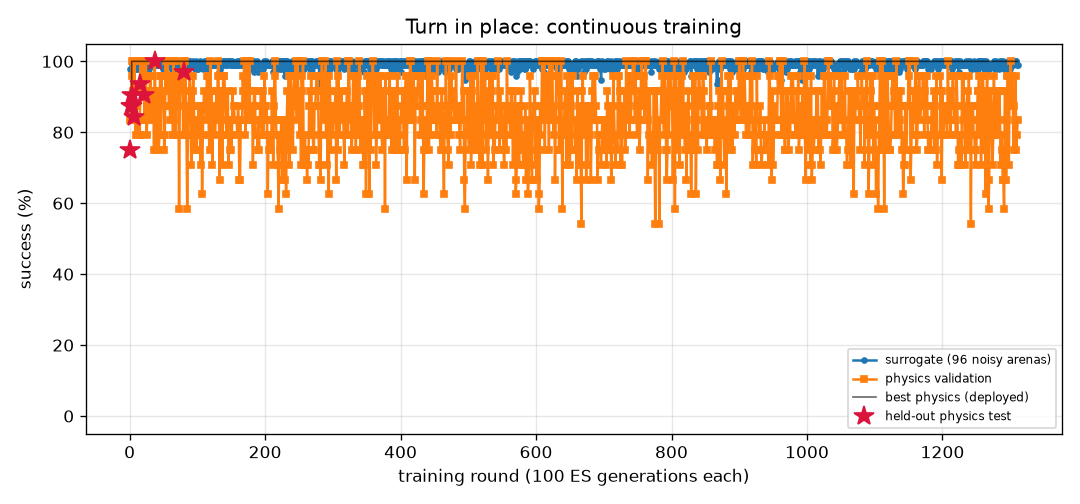
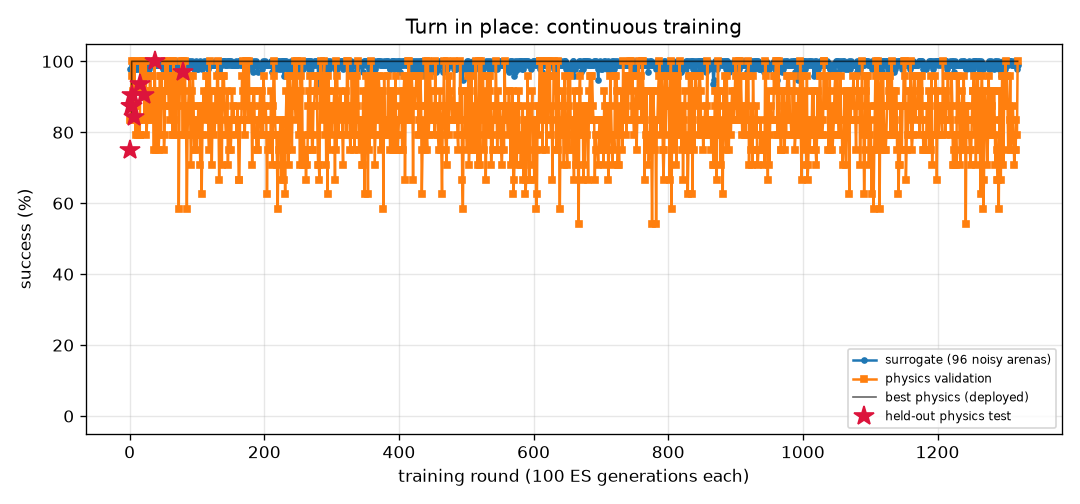
FlyLab: continuous training progress
- walk_forward: optimal, physics val 100% of 24, round 515
- turn: optimal, physics val 100% of 24, round 1319
- goto: optimal, physics val 100% of 24, round 397
- odor_seek: optimal, physics val 100% of 24, round 322
- odor_avoid: optimal, physics val 100% of 24, round 1106
- light_seek: optimal, physics val 100% of 24, round 599
- light_avoid: optimal, physics val 100% of 24, round 821

diff --git a/projects/09_flylab/training/turn/REPORT.md b/projects/09_flylab/training/turn/REPORT.md
@@ -1,14 +1,14 @@
 # Turn in place (`turn`) — training report
 
-*Auto-generated by `train_brains.py`, last updated 2026-11-23T15:53:43.*
+*Auto-generated by `train_brains.py`, last updated 2026-11-23T19:28:46.*
 
 ![curve](curve.png)
 
 | | |
 |---|---|
-| rounds | 1311 |
-| ES generations | 131100 |
-| physics runs | 31710 |
+| rounds | 1319 |
+| ES generations | 131900 |
+| physics runs | 31902 |
 | status | **optimal** |
 | best brain | round 80: physics validation **100%** on 24 arenas, surrogate 100% |
 | held-out physics test | **97%** on 32 unseen arenas (95% CI 84%-99%) (errors: [1.6, 3.3, 6.3, 3.7, 1.1, 0.4, 2.4, 2.9, 0.1, 2.6, 0.5, 2.7, 1.5, 3.1, 4.5, 0.2, 0.5, 1.1, 2.0, 4.4, 2.8, 3.2, 0.3, 2.2, 0.5, 3.0, 0.3, 5.4, 0.4, 1.0, 4.7, 10.7]) |
@@ -17,14 +17,6 @@ Physics error per arena: deg from target heading (< 20 = success).
 
 | round | level | gens | sigma | surrogate | physics val | val errors | test | note |
 |---:|---:|---:|---:|---:|---:|---|---:|---|
-| 1272 | 3 | 127200 | 0.025 | 99% | 88% | [2.4, 7.2, 0.9, 1.1, 11.2, 1.1, 2.2, 6.5, 4.3, 0.5, 2.9, 3.0, 1.0, 1.3, 2.1, 0.8, 2.8, 0.6, 1.3, 3.5, 5.1, 1.2, 3.7, 0.6] |  | restart from best |
-| 1273 | 3 | 127300 | 0.024 | 99% | 79% | [7.3, 0.8, 1.2, 0.4, 2.9, 1.9, 5.5, 8.4, 6.4, 0.1, 4.6, 1.7, 2.1, 1.8, 5.6, 3.1, 1.6, 1.0, 4.8, 3.5, 5.6, 0.5, 5.2, 6.6] |  |  |
-| 1274 | 3 | 127400 | 0.025 | 99% | 71% | [7.4, 9.1, 0.1, 2.1, 2.0, 3.8, 2.8, 2.2, 4.6, 0.8, 3.8, 2.2, 2.4, 2.9, 4.0, 1.5, 2.4, 0.1, 2.4, 2.0, 7.4, 2.8, 1.0, 3.4] |  |  |
-| 1275 | 3 | 127500 | 0.025 | 99% | 79% | [4.9, 5.5, 3.0, 3.7, 0.2, 0.2, 5.6, 6.9, 5.8, 0.3, 4.7, 0.8, 1.1, 1.3, 5.4, 0.6, 0.5, 0.3, 0.3, 1.1, 5.2, 0.5, 5.8, 6.9] |  |  |
-| 1276 | 3 | 127600 | 0.025 | 100% | 96% | [6.1, 9.0, 7.5, 5.2, 2.2, 1.7, 4.0, 3.0, 3.4, 1.2, 2.5, 1.4, 3.6, 3.3, 2.9, 0.1, 1.2, 2.0, 2.0, 1.6, 3.7, 1.5, 5.4, 5.2] |  | restart from best |
-| 1277 | 3 | 127700 | 0.024 | 98% | 83% | [5.5, 7.1, 3.4, 3.6, 5.5, 0.6, 3.9, 7.2, 4.3, 13.9, 4.5, 3.0, 2.2, 2.7, 3.6, 0.4, 2.4, 1.1, 0.6, 1.0, 5.2, 1.6, 3.6, 3.1] |  |  |
-| 1278 | 3 | 127800 | 0.025 | 98% | 79% | [0.4, 6.5, 9.7, 2.6, 15.8, 3.0, 7.3, 6.4, 8.1, 2.3, 7.7, 4.5, 2.8, 1.5, 6.6, 5.3, 4.5, 4.5, 9.3, 14.3, 1.8, 3.7, 8.6, 10.8] |  |  |
-| 1279 | 3 | 127900 | 0.025 | 100% | 79% | [0.1, 5.7, 9.3, 1.1, 0.7, 1.7, 8.1, 10.9, 3.2, 2.1, 7.6, 3.6, 1.3, 0.1, 6.9, 2.8, 3.8, 4.6, 3.6, 3.9, 1.0, 1.0, 8.6, 10.7] |  |  |
 | 1280 | 3 | 128000 | 0.024 | 99% | 92% | [5.1, 3.7, 2.8, 1.5, 1.4, 0.4, 3.7, 6.4, 6.4, 1.2, 3.6, 0.9, 0.5, 2.1, 3.3, 0.7, 1.8, 0.9, 1.1, 0.5, 2.1, 1.8, 3.2, 6.3] |  | restart from best |
 | 1281 | 3 | 128100 | 0.024 | 99% | 88% | [3.7, 7.1, 2.1, 1.9, 2.6, 3.9, 5.6, 5.4, 6.1, 14.2, 4.7, 0.1, 1.1, 2.3, 4.4, 2.7, 0.1, 2.6, 3.7, 9.1, 4.9, 2.4, 6.4, 5.6] |  |  |
 | 1282 | 3 | 128200 | 0.025 | 99% | 92% | [1.2, 5.7, 5.0, 2.2, 0.2, 16.7, 6.2, 6.0, 6.8, 0.1, 4.0, 0.9, 1.7, 0.8, 3.1, 10.5, 1.0, 0.5, 8.0, 0.4, 5.8, 1.3, 5.9, 3.0] |  |  |
@@ -57,3 +49,11 @@ Physics error per arena: deg from target heading (< 20 = success).
 | 1309 | 3 | 130900 | 0.024 | 100% | 75% | [7.5, 5.6, 2.3, 1.2, 5.1, 109.8, 6.2, 0.5, 5.2, 1.0, 4.9, 1.7, 1.0, 2.2, 4.4, 0.2, 1.1, 0.9, 0.2, 1.0, 5.0, 2.0, 3.5, 8.2] |  |  |
 | 1310 | 3 | 131000 | 0.024 | 99% | 79% | [4.7, 3.0, 1.2, 1.0, 4.3, 0.2, 5.5, 7.0, 5.6, 1.7, 3.5, 2.8, 0.2, 3.1, 4.7, 1.5, 2.7, 1.2, 1.9, 3.4, 4.2, 0.2, 5.4, 7.5] |  |  |
 | 1311 | 3 | 131100 | 0.025 | 99% | 83% | [6.9, 3.9, 4.5, 0.7, 4.6, 2.5, 6.6, 6.2, 6.9, 0.2, 6.5, 0.4, 1.6, 3.5, 4.1, 0.1, 0.9, 1.1, 0.0, 0.1, 6.7, 0.2, 3.9, 5.4] |  |  |
+| 1312 | 3 | 131200 | 0.025 | 99% | 88% | [4.5, 3.7, 2.1, 1.6, 2.7, 1.5, 5.4, 3.3, 4.1, 1.6, 0.3, 1.1, 0.7, 2.4, 3.1, 0.5, 0.8, 0.5, 0.4, 0.6, 3.0, 9.9, 4.9, 1.9] |  | restart from best |
+| 1313 | 3 | 131300 | 0.024 | 99% | 79% | [7.9, 6.3, 0.1, 4.4, 14.1, 2.0, 4.8, 1.5, 4.0, 0.8, 2.7, 1.2, 2.7, 3.8, 2.9, 10.1, 1.3, 0.9, 0.5, 1.7, 6.7, 3.4, 3.4, 4.8] |  |  |
+| 1314 | 3 | 131400 | 0.025 | 100% | 71% | [4.6, 4.9, 4.6, 0.9, 14.3, 2.1, 7.3, 2.5, 5.4, 0.5, 5.2, 0.7, 0.6, 0.4, 5.3, 0.4, 0.6, 2.3, 1.0, 1.0, 5.1, 2.6, 7.0, 7.2] |  |  |
+| 1315 | 3 | 131500 | 0.024 | 99% | 75% | [4.2, 5.3, 7.3, 0.0, 4.1, 4.2, 7.3, 4.8, 5.3, 1.5, 4.2, 1.5, 0.2, 1.7, 3.6, 4.5, 2.6, 7.2, 15.9, 15.7, 6.2, 3.3, 6.3, 6.9] |  |  |
+| 1316 | 3 | 131600 | 0.025 | 99% | 75% | [4.9, 3.5, 14.2, 2.4, 2.1, 1.3, 6.7, 4.8, 6.9, 0.4, 5.3, 0.4, 0.0, 1.4, 4.9, 2.7, 0.3, 2.0, 2.7, 3.1, 6.7, 3.9, 5.3, 4.4] |  | restart from best |
+| 1317 | 3 | 131700 | 0.024 | 100% | 83% | [5.1, 8.6, 3.1, 3.6, 3.4, 0.2, 3.2, 1.4, 3.1, 0.7, 2.4, 2.2, 2.4, 2.3, 3.0, 1.0, 2.1, 0.2, 2.0, 1.6, 4.3, 1.6, 4.4, 3.0] |  |  |
+| 1318 | 3 | 131800 | 0.024 | 98% | 79% | [5.9, 1.4, 4.2, 1.5, 10.9, 1.3, 6.5, 8.4, 6.0, 1.1, 5.8, 1.1, 0.1, 1.5, 5.3, 3.8, 1.0, 1.8, 2.3, 3.9, 2.6, 0.8, 6.3, 6.5] |  |  |
+| 1319 | 3 | 131900 | 0.025 | 99% | 100% | [4.2, 6.0, 5.4, 3.7, 10.7, 0.5, 4.2, 7.0, 4.0, 0.5, 4.0, 0.2, 0.7, 2.8, 3.1, 1.3, 0.1, 0.5, 1.0, 1.1, 4.7, 1.6, 4.9, 2.0] |  |  |

diff --git a/projects/09_flylab/training/odor_seek/REPORT.md b/projects/09_flylab/training/odor_seek/REPORT.md
@@ -1,14 +1,14 @@
 # Find food by smell (`odor_seek`) — training report
 
-*Auto-generated by `train_brains.py`, last updated 2026-11-23T18:27:18.*
+*Auto-generated by `train_brains.py`, last updated 2026-11-23T19:24:24.*
 
 ![curve](curve.png)
 
 | | |
 |---|---|
-| rounds | 319 |
-| ES generations | 31900 |
-| physics runs | 7150 |
+| rounds | 322 |
+| ES generations | 32200 |
+| physics runs | 7222 |
 | status | **optimal** |
 | best brain | round 240: physics validation **100%** on 24 arenas, surrogate 100% |
 | held-out physics test | **100%** on 32 unseen arenas (95% CI 89%-100%) (errors: [0.02, 0.03, 0.03, 0.05, 0.04, 0.05, 0.06, 0.07, 0.09, 0.05, 0.05, 0.01, 0.12, 0.03, 0.07, 0.08, 0.02, 0.06, 0.03, 0.04, 0.0, 0.01, 0.09, 0.05, 0.04, 0.01, 0.07, 0.05, 0.08, 0.05, 0.05, 0.02]) |
@@ -17,9 +17,6 @@ Physics error per arena: mm from target at the end (< 1.5 and standing still = s
 
 | round | level | gens | sigma | surrogate | physics val | val errors | test | note |
 |---:|---:|---:|---:|---:|---:|---|---:|---|
-| 280 | 3 | 28000 | 0.024 | 100% | 100% | [0.19, 0.24, 0.19, 0.24, 0.21, 0.17, 0.21, 0.12, 0.21, 0.24, 0.24, 0.23, 0.19, 0.2, 0.24, 0.25, 0.19, 0.28, 0.21, 0.22, 0.17, 0.23, 0.17, 0.19] |  | restart from best |
-| 281 | 3 | 28100 | 0.024 | 100% | 100% | [0.1, 0.04, 0.08, 0.1, 0.09, 0.07, 0.11, 0.2, 0.21, 0.05, 0.06, 0.04, 0.09, 0.11, 0.15, 0.07, 0.06, 0.1, 0.09, 0.12, 0.03, 0.08, 0.05, 0.13] |  |  |
-| 282 | 3 | 28200 | 0.024 | 100% | 100% | [0.24, 0.19, 0.2, 0.11, 0.18, 0.21, 0.23, 0.15, 0.12, 0.11, 0.21, 0.23, 0.2, 0.19, 0.29, 0.19, 0.17, 0.23, 0.13, 0.18, 0.12, 0.11, 0.19, 0.23] |  |  |
 | 283 | 3 | 28300 | 0.024 | 100% | 100% | [0.22, 0.18, 0.16, 0.12, 0.18, 0.22, 0.15, 0.16, 0.16, 0.19, 0.22, 0.13, 0.16, 0.2, 0.16, 0.13, 0.15, 0.16, 0.14, 0.15, 0.2, 0.17, 0.21, 0.18] |  |  |
 | 284 | 3 | 28400 | 0.024 | 100% | 100% | [0.09, 0.15, 0.15, 0.15, 0.11, 0.2, 0.22, 0.11, 0.06, 0.22, 0.04, 0.07, 0.2, 0.13, 0.09, 0.11, 0.07, 0.18, 0.13, 0.12, 0.06, 0.13, 0.15, 0.13] |  | restart from best |
 | 285 | 3 | 28500 | 0.024 | 100% | 100% | [0.15, 0.15, 0.17, 0.19, 0.15, 0.13, 0.14, 0.18, 0.17, 0.14, 0.14, 0.14, 0.1, 0.12, 0.13, 0.13, 0.19, 0.17, 0.13, 0.16, 0.12, 0.07, 0.18, 0.15] |  |  |
@@ -57,3 +54,6 @@ Physics error per arena: mm from target at the end (< 1.5 and standing still = s
 | 317 | 3 | 31700 | 0.024 | 100% | 100% | [0.14, 0.13, 0.14, 0.18, 0.13, 0.17, 0.16, 0.2, 0.12, 0.13, 0.15, 0.21, 0.16, 0.18, 0.2, 0.11, 0.12, 0.16, 0.17, 0.17, 0.21, 0.12, 0.19, 0.13] |  |  |
 | 318 | 3 | 31800 | 0.024 | 100% | 100% | [0.12, 0.12, 0.12, 0.1, 0.14, 0.12, 0.11, 0.18, 0.14, 0.16, 0.11, 0.13, 0.13, 0.15, 0.14, 0.08, 0.17, 0.17, 0.14, 0.18, 0.08, 0.09, 0.09, 0.19] |  |  |
 | 319 | 3 | 31900 | 0.024 | 100% | 100% | [0.14, 0.13, 0.09, 0.1, 0.23, 0.14, 0.13, 0.16, 0.21, 0.17, 0.11, 0.09, 0.11, 0.23, 0.08, 0.11, 0.14, 0.23, 0.1, 0.11, 0.03, 0.07, 0.16, 0.16] |  |  |
+| 320 | 3 | 32000 | 0.024 | 100% | 100% | [0.12, 0.15, 0.08, 0.13, 0.18, 0.12, 0.1, 0.17, 0.24, 0.1, 0.09, 0.16, 0.14, 0.18, 0.13, 0.12, 0.09, 0.17, 0.11, 0.19, 0.13, 0.12, 0.15, 0.15] |  | restart from best |
+| 321 | 3 | 32100 | 0.024 | 100% | 100% | [0.28, 0.13, 0.16, 0.27, 0.12, 0.14, 0.14, 0.24, 0.16, 0.11, 0.16, 0.18, 0.14, 0.18, 0.15, 0.11, 0.18, 0.12, 0.18, 0.25, 0.15, 0.18, 0.18, 0.19] |  |  |
+| 322 | 3 | 32200 | 0.024 | 100% | 100% | [0.16, 0.17, 0.21, 0.19, 0.14, 0.16, 0.16, 0.22, 0.2, 0.17, 0.21, 0.22, 0.15, 0.21, 0.19, 0.21, 0.23, 0.16, 0.21, 0.2, 0.22, 0.21, 0.15, 0.24] |  |  |

diff --git a/projects/09_flylab/training/walk_forward/REPORT.md b/projects/09_flylab/training/walk_forward/REPORT.md
@@ -1,14 +1,14 @@
 # Walk forward (`walk_forward`) — training report
 
-*Auto-generated by `train_brains.py`, last updated 2026-11-23T18:19:44.*
+*Auto-generated by `train_brains.py`, last updated 2026-11-23T18:30:51.*
 
 ![curve](curve.png)
 
 | | |
 |---|---|
-| rounds | 514 |
-| ES generations | 51400 |
-| physics runs | 12414 |
+| rounds | 515 |
+| ES generations | 51500 |
+| physics runs | 12438 |
 | status | **optimal** |
 | best brain | round 485: physics validation **100%** on 24 arenas, surrogate 100% |
 | held-out physics test | **100%** on 32 unseen arenas (95% CI 89%-100%) (errors: [0.14, 0.13, 0.15, 0.21, 0.14, 0.12, 0.13, 0.18, 0.2, 0.15, 0.13, 0.14, 0.2, 0.15, 0.12, 0.12, 0.14, 0.14, 0.13, 0.13, 0.14, 0.21, 0.14, 0.13, 0.14, 0.14, 0.18, 0.14, 0.14, 0.14, 0.17, 0.15]) |
@@ -17,7 +17,6 @@ Physics error per arena: mm from target at the end (< 1.5 and standing still = s
 
 | round | level | gens | sigma | surrogate | physics val | val errors | test | note |
 |---:|---:|---:|---:|---:|---:|---|---:|---|
-| 475 | 3 | 47500 | 0.024 | 100% | 100% | [0.24, 0.3, 0.21, 0.24, 0.3, 0.21, 0.3, 0.21, 0.3, 0.29, 0.22, 0.28, 0.2, 0.21, 0.25, 0.29, 0.23, 0.29, 0.2, 0.26, 0.21, 0.29, 0.27, 0.21] |  |  |
 | 476 | 3 | 47600 | 0.024 | 100% | 100% | [0.18, 0.23, 0.18, 0.18, 0.23, 0.18, 0.23, 0.19, 0.23, 0.24, 0.18, 0.23, 0.18, 0.18, 0.19, 0.23, 0.18, 0.22, 0.18, 0.2, 0.18, 0.24, 0.22, 0.18] |  |  |
 | 477 | 3 | 47700 | 0.024 | 100% | 100% | [0.22, 0.24, 0.22, 0.22, 0.24, 0.22, 0.25, 0.23, 0.25, 0.28, 0.22, 0.29, 0.23, 0.22, 0.21, 0.29, 0.21, 0.23, 0.22, 0.22, 0.22, 0.28, 0.29, 0.23] |  | restart from best |
 | 478 | 3 | 47800 | 0.025 | 100% | 100% | [0.26, 0.28, 0.21, 0.26, 0.28, 0.19, 0.27, 0.23, 0.28, 0.26, 0.18, 0.24, 0.22, 0.2, 0.27, 0.25, 0.25, 0.28, 0.23, 0.27, 0.24, 0.26, 0.24, 0.22] |  |  |
@@ -57,3 +56,4 @@ Physics error per arena: mm from target at the end (< 1.5 and standing still = s
 | 512 | 3 | 51200 | 0.025 | 100% | 100% | [0.3, 0.31, 0.09, 0.3, 0.31, 0.25, 0.31, 0.27, 0.31, 0.22, 0.02, 0.2, 0.27, 0.06, 0.31, 0.21, 0.29, 0.3, 0.28, 0.31, 0.28, 0.23, 0.22, 0.27] |  |  |
 | 513 | 3 | 51300 | 0.024 | 100% | 96% | [0.24, 0.28, 0.05, 0.24, 0.28, 0.06, 0.29, 0.22, 0.28, 0.29, 0.09, 0.28, 0.08, 0.03, 0.25, 0.28, 0.23, 0.27, 0.07, 0.26, 0.22, 0.29, 0.28, 0.07] |  | restart from best |
 | 514 | 3 | 51400 | 0.024 | 99% | 96% | [0.23, 0.23, 0.13, 0.22, 0.24, 0.07, 0.23, 0.19, 0.23, 0.23, 0.27, 0.2, 0.19, 0.03, 0.23, 0.21, 0.21, 0.25, 0.2, 0.24, 0.2, 0.23, 0.09, 0.18] |  |  |
+| 515 | 3 | 51500 | 0.025 | 100% | 96% | [0.06, 0.17, 0.14, 0.05, 0.17, 0.07, 0.19, 0.06, 0.18, 0.22, 0.13, 0.22, 0.07, 0.06, 0.06, 0.23, 0.06, 0.15, 0.06, 0.12, 0.06, 0.23, 0.22, 0.22] |  |  |

diff --git a/projects/09_flylab/training/TRAINING.md b/projects/09_flylab/training/TRAINING.md
@@ -1,15 +1,15 @@
 # FlyLab brains — continuous training log
 
-*Auto-generated by `train_brains.py`, last updated 2026-11-23T18:27:18.*
+*Auto-generated by `train_brains.py`, last updated 2026-11-23T19:28:46.*
 
 Every skill has its own brain and its own training process: surrogate ES rounds, physics validation in MuJoCo, keep-the-best selection, and a held-out physics test that is never used for selection. See each skill's report for its full round-by-round history. Mastery is progressive: passing a level (100% physics validation, >=95% surrogate) doubles the validation and test arena sets; a brain is **optimal** once it holds up at level 3 (>=95% of 24 validation arenas) AND scores >=90% on the 32 held-out test arenas. Test columns show 95% Wilson confidence intervals.
 
 | skill | rounds | ES generations | physics runs | surrogate | physics val | **physics test** | status |
 |---|---:|---:|---:|---:|---:|---:|---|
-| [Walk forward](walk_forward/REPORT.md) | 514 | 51400 | 12414 | 100% | 100% of 24 | 100% of 32 (CI 89-100%) | **optimal** |
-| [Turn in place](turn/REPORT.md) | 1311 | 131100 | 31710 | 100% | 100% of 24 | 97% of 32 (CI 84-99%) | **optimal** |
+| [Walk forward](walk_forward/REPORT.md) | 515 | 51500 | 12438 | 100% | 100% of 24 | 100% of 32 (CI 89-100%) | **optimal** |
+| [Turn in place](turn/REPORT.md) | 1319 | 131900 | 31902 | 100% | 100% of 24 | 97% of 32 (CI 84-99%) | **optimal** |
 | [Go to a location](goto/REPORT.md) | 397 | 39700 | 9478 | 100% | 100% of 24 | 100% of 32 (CI 89-100%) | **optimal** |
-| [Find food by smell](odor_seek/REPORT.md) | 319 | 31900 | 7150 | 100% | 100% of 24 | 100% of 32 (CI 89-100%) | **optimal** |
+| [Find food by smell](odor_seek/REPORT.md) | 322 | 32200 | 7222 | 100% | 100% of 24 | 100% of 32 (CI 89-100%) | **optimal** |
 | [Escape a bad smell](odor_avoid/REPORT.md) | 1106 | 110600 | 23850 | 97% | 100% of 24 | 97% of 32 (CI 84-99%) | **optimal** |
 | [Walk toward light](light_seek/REPORT.md) | 599 | 59900 | 11256 | 100% | 100% of 24 | 100% of 32 (CI 89-100%) | **optimal** |
 | [Hide from light](light_avoid/REPORT.md) | 821 | 82100 | 19976 | 100% | 100% of 24 | 100% of 32 (CI 89-100%) | **optimal** |
